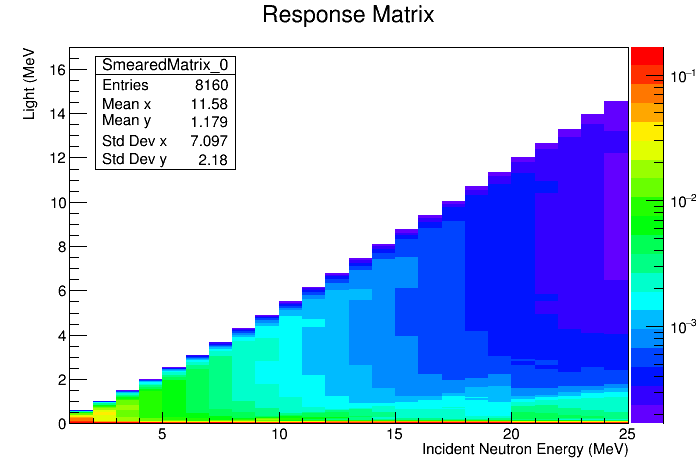
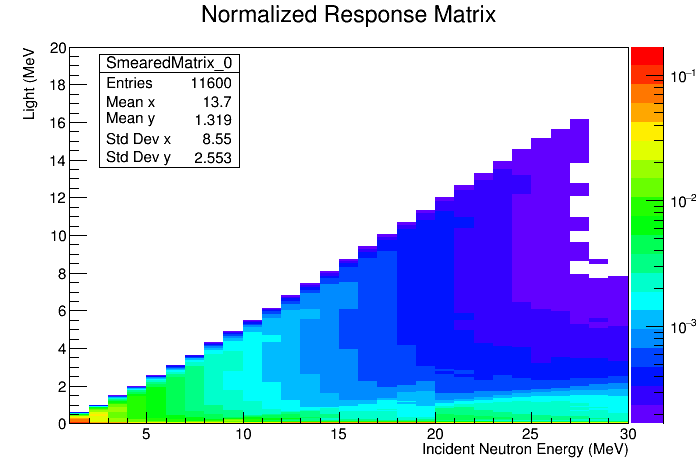
Added new calibrations - still not right and fitted PSD cuts

diff --git a/Experiments/PHS/16MeVTa/Calibration/start16MeVTaCalibration_0.cpp b/Experiments/PHS/16MeVTa/Calibration/start16MeVTaCalibration_0.cpp
@@ -1,10 +1,10 @@
 MultiDataScintCalibration* startSimCalibration()
 {
   HistogramOperations ops;
-  // vector<TH1*> dataHists = ops.loadHistograms("CalibData_0.root");
-  // vector<TH1*> simHists = ops.loadHistograms("Simulation/CalibSim.root");
-  vector<TH1*> dataHists = ops.loadHistograms("twoSetTest.root");
-  vector<TH1*> simHists = ops.loadHistograms("Simulation/twoSimSetTest.root");
+  vector<TH1*> dataHists = ops.loadHistograms("CalibData_0.root");
+  vector<TH1*> simHists = ops.loadHistograms("Simulation/CalibSim.root");
+  // vector<TH1*> dataHists = ops.loadHistograms("twoSetTest.root");
+  // vector<TH1*> simHists = ops.loadHistograms("Simulation/twoSimSetTest.root");
   // TFile background("Background_002_ls_0.root");
   // TH1* backHist = (TH1*) background.Get("rebin0")->Clone();
 
@@ -16,22 +16,22 @@ MultiDataScintCalibration* startSimCalibration()
   parameters.push_back(6.68802e-04); //E2
   parameters.push_back(1.32e5); //Calib source 1 scalar
   parameters.push_back(1.15e5); //Calib source 2 scalar
-  //parameters.push_back(9.83e4); //Calib source 3 scalar
+  parameters.push_back(9.83e4); //Calib source 3 scalar
 
   //Standard call without background 
-  MultiDataScintCalibration* calibClass = new MultiDataScintCalibration(dataHists,simHists,parameters,0.5);
+  //MultiDataScintCalibration* calibClass = new MultiDataScintCalibration(dataHists,simHists,parameters,0.5);
   
   //Call to use power law background subtraction; add 3 params each above
-  // parameters.push_back(0.15); //Calib source 1 power law scalar
-  // parameters.push_back(-4.3); //Calib source 1 power law exp
-  // parameters.push_back(0); //Calib source 1 power law const
-  // parameters.push_back(0.001); //Calib source 2 power law scalar 
-  // parameters.push_back(-0.000026); //Calib source 2 power law exp 
-  // parameters.push_back(9.9); //Calib source 2 power law const
-  // parameters.push_back(0.00057); //Calib source 3 power law scalar 
-  // parameters.push_back(-4.1); //Calib source 3 power law exp 
-  // parameters.push_back(0.0); //Calib source 3 power law const
-  // MultiDataScintCalibration* calibClass = new MultiDataScintCalibration(dataHists,simHists,parameters,0.5,true);
+  parameters.push_back(0.15); //Calib source 1 power law scalar
+  parameters.push_back(-4.3); //Calib source 1 power law exp
+  parameters.push_back(0); //Calib source 1 power law const
+  parameters.push_back(0.001); //Calib source 2 power law scalar 
+  parameters.push_back(-0.000026); //Calib source 2 power law exp 
+  parameters.push_back(9.9); //Calib source 2 power law const
+  parameters.push_back(0.00057); //Calib source 3 power law scalar 
+  parameters.push_back(-4.1); //Calib source 3 power law exp 
+  parameters.push_back(0.0); //Calib source 3 power law const
+  MultiDataScintCalibration* calibClass = new MultiDataScintCalibration(dataHists,simHists,parameters,0.5,true);
   
   // Call to use measured background subtraction; add 1 param each for calib source
   // parameters.push_back(1e-5); //Calib source 1 background scalar
@@ -49,4 +49,85 @@ MultiDataScintCalibration* startGuessSimCalib()
 
   MultiDataScintCalibration* calibClass = new MultiDataScintCalibration(dataHists,simHists);
   return calibClass;
+}
+
+
+void copytree() {
+   TFile *oldfile001 = new TFile("16MeVTaUnfoldingRun_001_ls_0.root");
+   TTree *oldtree001 = (TTree*)oldfile001->Get("eventTree");
+   ScintillatorEvent *event   = new ScintillatorEvent();
+   oldtree001->SetBranchAddress("ScintillatorEvent",&event);
+   oldtree001->SetBranchStatus("m_amplitude",1);
+   oldtree001->SetBranchStatus("m_shape",1);
+   oldtree001->SetBranchStatus("m_time",1);
+   oldtree001->SetBranchStatus("m_extra",1);
+   //Create a new file + a clone of old tree in new file
+   TFile *newfile001 = new TFile("all.root","recreate");
+   TTree *newtree001 = oldtree001->CloneTree();
+   newtree001->Print();
+   newfile001->Write();
+   delete oldfile001;
+   .ls
+   newfile001->Close()
+
+   TFile *oldfile002 = new TFile("16MeVTaUnfoldingRun_002_ls_0.root");
+   TTree *oldtree002 = (TTree*)oldfile002->Get("eventTree");
+   oldtree002->SetBranchAddress("ScintillatorEvent",&event);
+   oldtree002->SetBranchStatus("m_amplitude",1);
+   oldtree002->SetBranchStatus("m_shape",1);
+   oldtree002->SetBranchStatus("m_time",1);
+   oldtree002->SetBranchStatus("m_extra",1);
+   //Create a new file + a clone of old tree in new file
+   TFile *newfile002 = new TFile("all.root","update");
+   TTree *newtree002 = oldtree002->CloneTree();
+   newtree002->Print();
+   newfile002->Write();
+   delete oldfile002;
+   .ls
+   eventTree->GetEntries()
+   //delete newfile002;
+}
+
+void copytree() {
+   TFile *oldfile001 = new TFile("16MeVTaUnfoldingRun_001_ls_0.root");
+   TTree *oldtree001 = (TTree*)oldfile001->Get("eventTree");
+   ScintillatorEvent *event   = new ScintillatorEvent();
+   oldtree001->SetBranchAddress("ScintillatorEvent",&event);
+   oldtree001->SetBranchStatus("*",1);
+
+   TFile *oldfile002 = new TFile("16MeVTaUnfoldingRun_002_ls_0.root");
+   TTree *oldtree002 = (TTree*)oldfile002->Get("eventTree");
+   oldtree002->SetBranchAddress("ScintillatorEvent",&event);
+   oldtree002->SetBranchStatus("*",1);
+
+   //Create a new file + a clone of old tree in new file
+   TFile *newfile = new TFile("all.root","recreate");
+   TTree *newtree001 = oldtree001->CloneTree();
+   TTree *newtree002 = oldtree002->CloneTree();
+
+   TList *tmplist = new TList;
+   tmplist->Add(newtree001);
+   tmplist->Add(newtree002);
+   TTree *newtree = TTree::MergeTrees(tmplist);
+   newtree->SetName("eventTree");
+   newtree->Print();
+   newfile->Write();
+   delete oldfile001;
+   delete oldfile002;
+   .ls
+   eventTree->GetEntries()
+   newfile->Close()
+}
+
+void copytree() {
+   TChain tmpChain("tmpChain")
+   tmpChain.Add("16MeVTaUnfoldingRun_*_ls_0.root/eventTree")
+
+   //Create a new file + a clone of old tree in new file
+   TFile *newfile = new TFile("all.root","recreate");
+
+   newfile->Write();
+   .ls
+   eventTree->GetEntries()
+   newfile->Close()
 }
